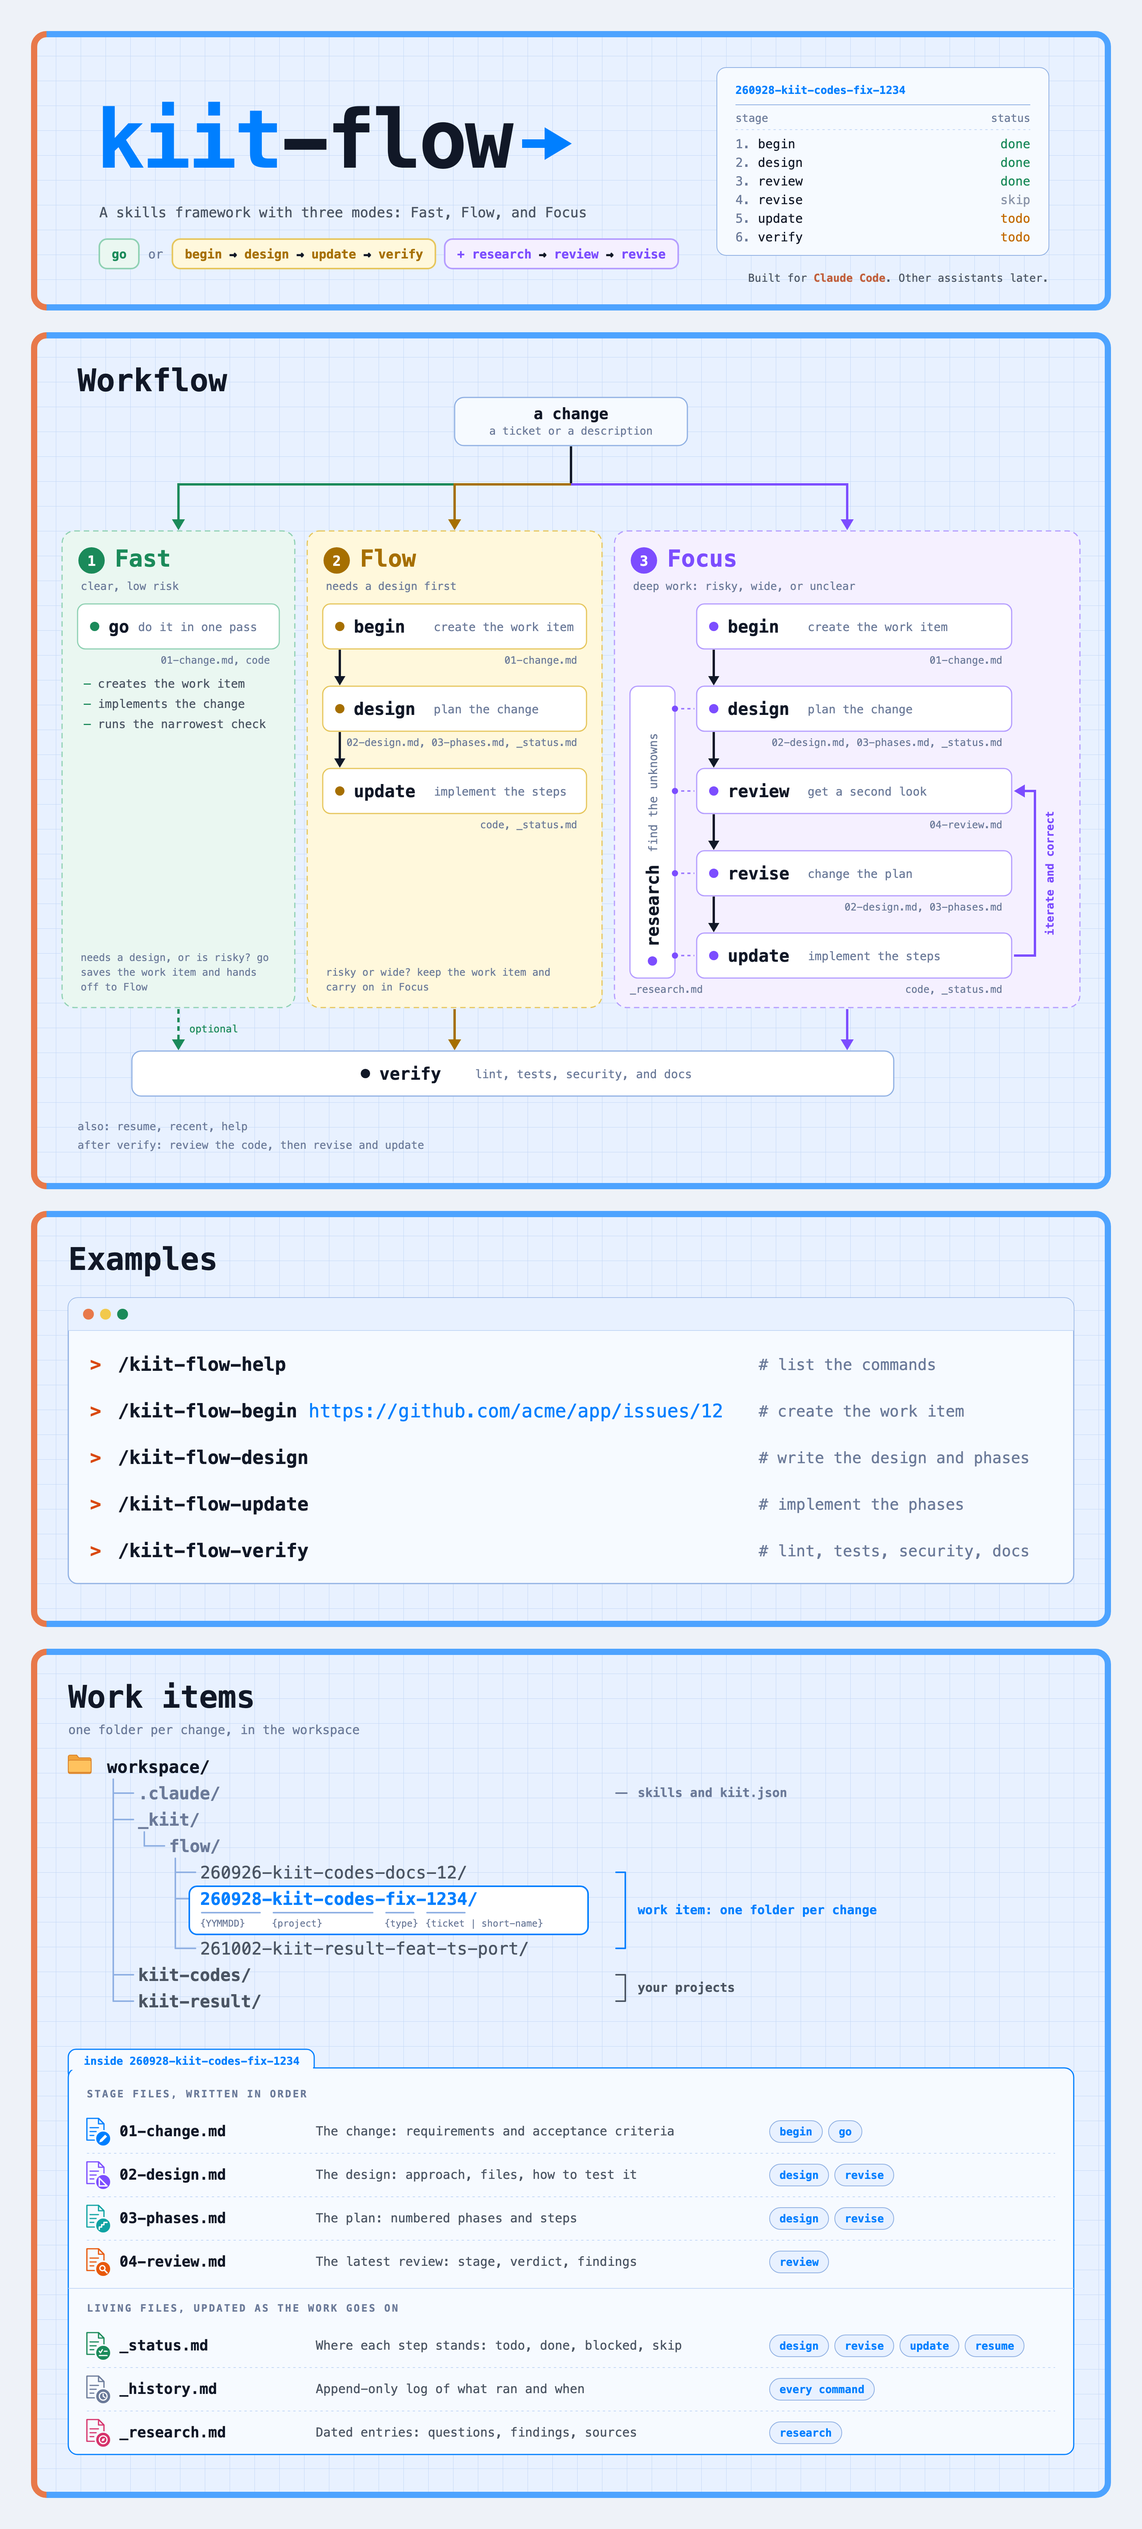
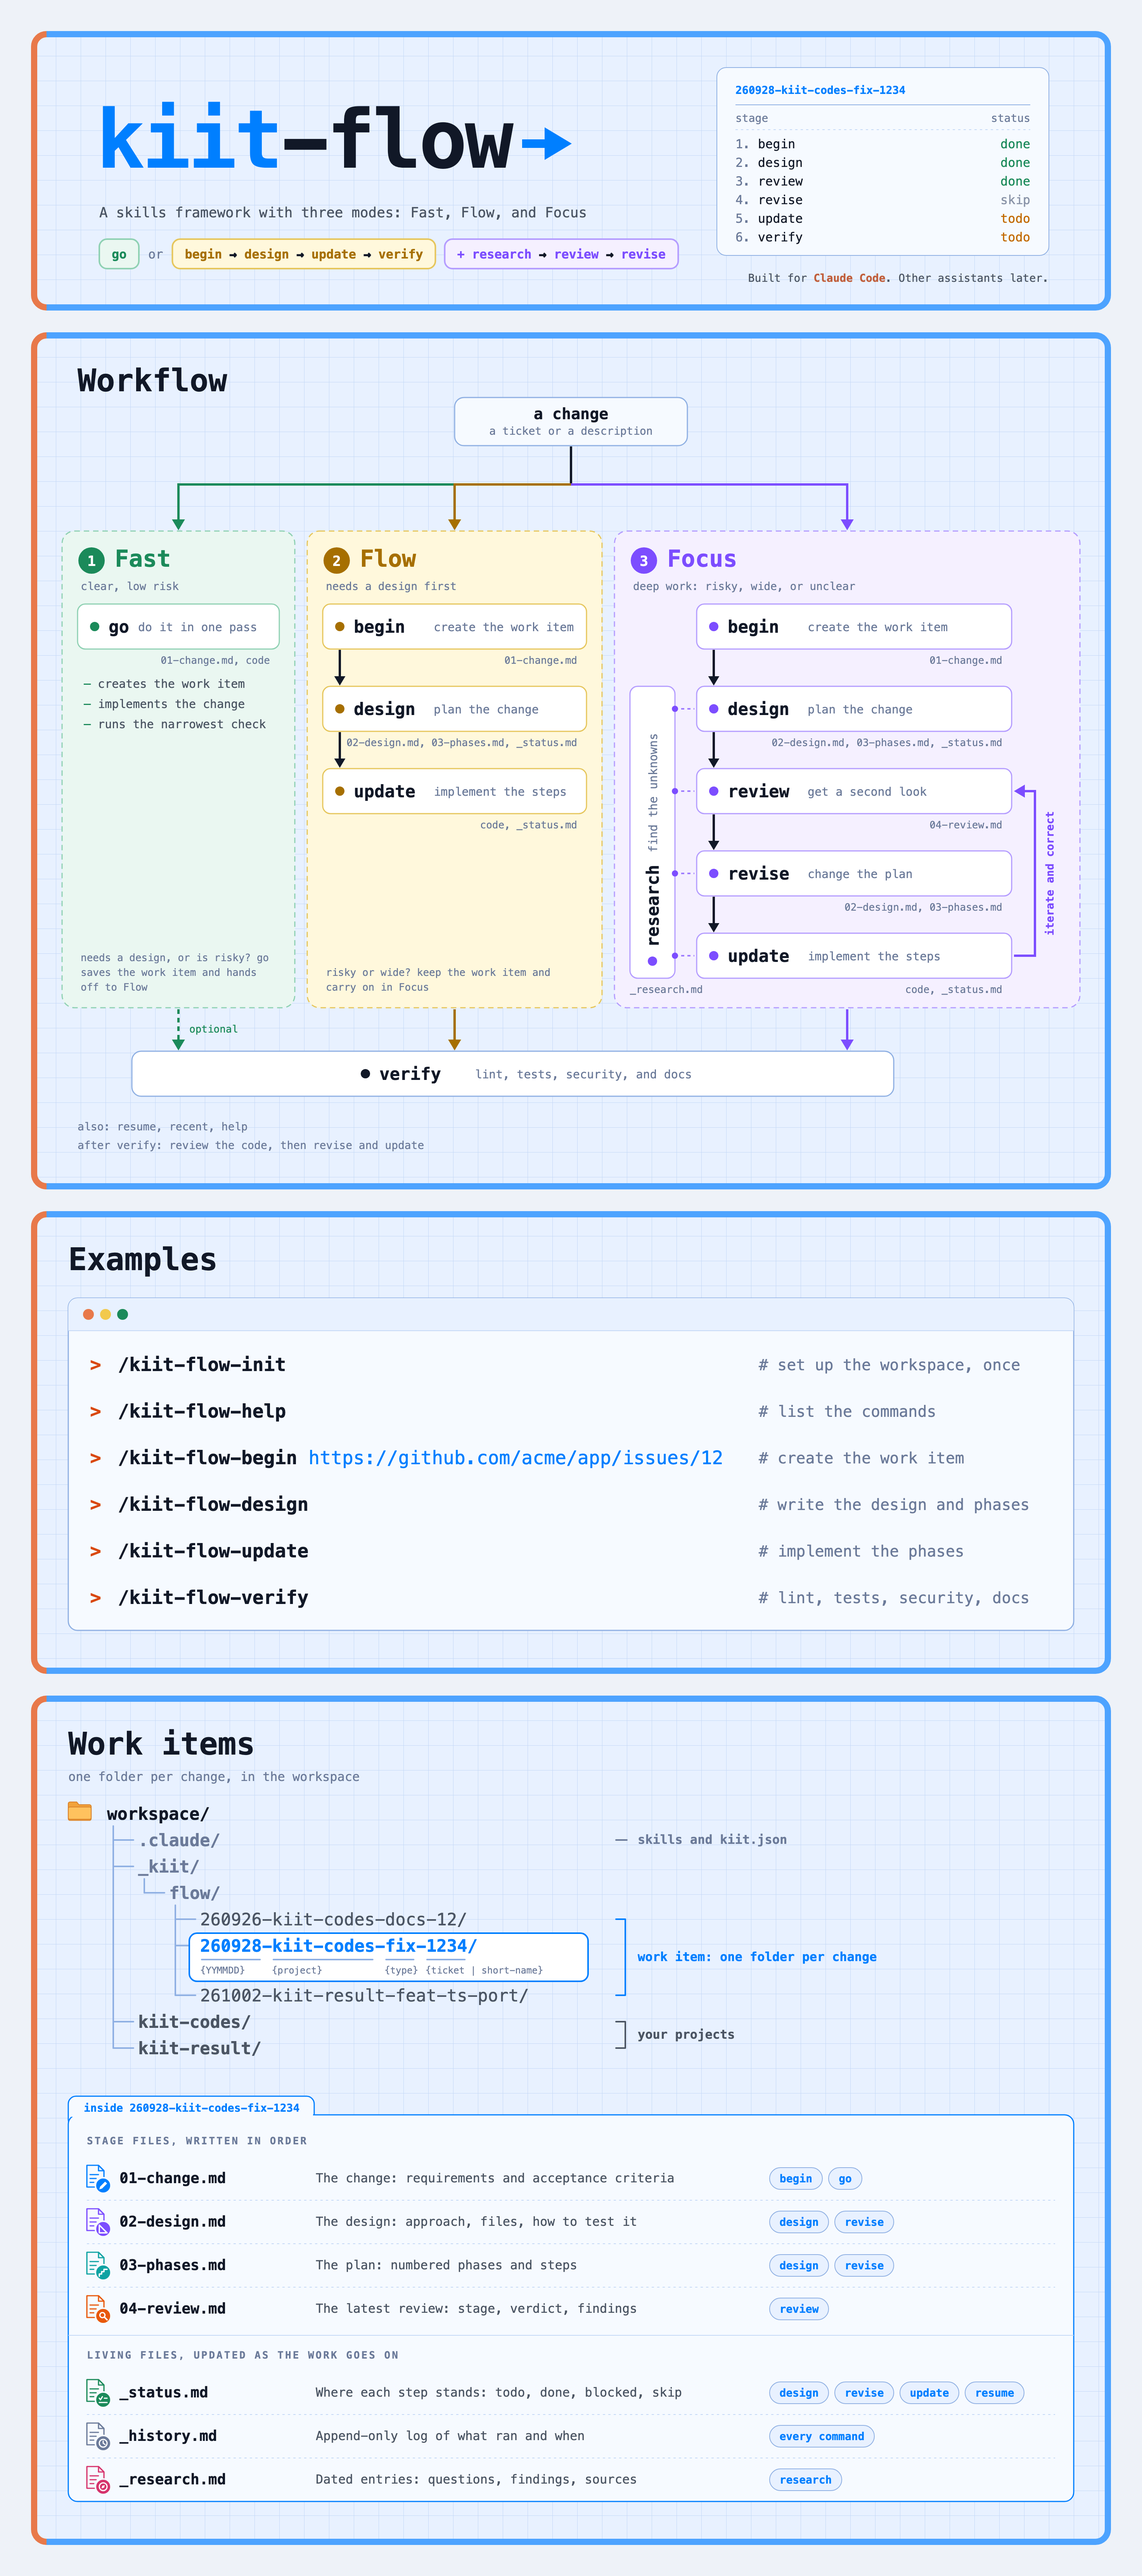
add: init skill

diff --git a/assets/commands.html b/assets/commands.html
@@ -34,6 +34,7 @@ const CONFIG = {
   prefix: "/kiit-flow-",                            // the full command is this plus the short name
   legend: [["fast", "Fast"], ["flow", "Flow and Focus"], ["focus", "Focus"], ["any", "Any mode"]],
   commands: [                                      // [name, group, description, files written]
+    ["init",     "any",   "set up the workspace config, once",               ".claude/kiit/kiit.json"],
     ["go",       "fast",  "do a clear, low-risk change in one pass",         "01-change.md, code"],
     ["begin",    "flow",  "create a work item from a ticket or description", "01-change.md"],
     ["design",   "flow",  "write the design, phases, and status",            "02-design.md, 03-phases.md, _status.md"],
@@ -46,14 +47,14 @@ const CONFIG = {
     ["recent",   "any",   "list work items, newest first",                   ""],
     ["help",     "any",   "show the commands, or the usage of one",          ""],
   ],
-  footer: "Every command except recent and help adds a row to _history.md.",
+  footer: "Every command except init, recent and help adds a row to _history.md.",
   theme: KIIT_THEME,
 };
 // ---------------------------------------------------------------------------
 
 function buildSvg(c) {
   const t = c.theme, W = c.width, vpad = 20, margin = 56;
-  const rowH = 48, rowGap = 14, pitch = rowH + rowGap, rowsTop = 108;
+  const rowH = 48, rowGap = 22, pitch = rowH + rowGap, rowsTop = 108;
   const cx = margin + 16, rowX = margin + 56, rowW = W - margin - rowX;
   const n = c.commands.length;
   const rowsBottom = rowsTop + n * pitch - rowGap;

diff --git a/assets/start.html b/assets/start.html
@@ -25,6 +25,7 @@ const CONFIG = {
   label: "Examples",
   width: 1392,                               // the same width as the workflow diagram
   lines: [                                   // [command, argument, comment]
+    ["/kiit-flow-init",   "",                                         "set up the workspace, once"],
     ["/kiit-flow-help",   "",                                         "list the commands"],
     ["/kiit-flow-begin",  "https://github.com/acme/app/issues/12",    "create the work item"],
     ["/kiit-flow-design", "",                                         "write the design and phases"],

diff --git a/skills/flow-init/SKILL.md b/skills/flow-init/SKILL.md
@@ -1,0 +1,61 @@
+---
+description: Set up a workspace: find the projects and write the config.
+argument-hint: ""
+order: 0
+disable-model-invocation: true
+---
+
+# flow-init
+
+Set up a workspace from what is already there: find the projects, read their remotes, and write `.claude/kiit/kiit.json` and the work item folder. Changes no project.
+
+Read `.claude/kiit/flow/shared.md` first. Its workspace rule doesn't apply: init creates the config.
+
+## Usage
+```
+USAGE: /flow-init
+
+  Set up the workspace: find the projects and write kiit.json.
+
+
+ARGUMENTS:
+  none
+
+
+EXAMPLES:
+  /flow-init
+```
+
+## Steps
+1. Use the working directory as the workspace root.
+   - A `.claude/kiit/kiit.json` here or above: use that folder, and update it
+2. Find the projects. Each immediate subfolder that is a git repository is one.
+   - Skip hidden folders and the work item folder
+   - Name it by its folder, with the path `./{folder}`
+   - The workspace is itself a repository: one project, with the path `.`
+   - None found: `error: no git repositories found`, and stop
+3. Read each project's `origin` remote to find its ticket system.
+   - `git -C {path} remote get-url origin`. Both https and ssh forms count
+   - A GitHub remote gives a `github` system with its `owner`, one per owner
+   - Two or more owners: name each system by its owner, and set `tickets` on the
+     projects. Put the owner with the most projects first
+   - The repo name differs from the folder name: set `repo`
+   - Ask once whether to add Jira, Linear or another system, with its `url`
+   - No system at all: write `"tickets": []`
+4. Look for a folder of standards: `standards`, or `standards` one level down.
+   - Found: offer it as the `standards` resource. Ask first
+5. A `github` system is set and `gh` isn't installed: warn that tickets need it.
+6. Show what will be written, then ask to go ahead.
+   - An existing file: show only the changes, and keep every value it has
+   - Ask before changing a value. Never overwrite one
+7. Write `.claude/kiit/kiit.json`, and create the `flow.work_items` folder.
+   - `flow.work_items` is `_kiit/flow` unless the file sets it
+8. Print what was set up, then the next step.
+   - `/flow-begin {project} {type} {description}`, with a real project name
+   - The workspace is a repository: suggest `_kiit/` in `.gitignore`, no edit
+
+## Rules
+1. Write only `.claude/kiit/kiit.json` and the work item folder.
+2. No git write commands. Reading a remote is fine.
+3. It is the one skill that runs without a `kiit.json`.
+4. Running it again is safe. It asks before any change.

diff --git a/README.md b/README.md
@@ -55,11 +55,11 @@ cd kiit-flow
 ./install.sh /path/to/workspace
 ```
 
-**Configure** by editing `.claude/kiit/kiit.json` in the workspace. Install creates it from the example, and running install again never overwrites it.
+**Set up** by restarting Claude Code in the workspace and running `/kiit-flow-init`. It finds your repos and their ticket systems, and writes `.claude/kiit/kiit.json` after you confirm. Install never creates or overwrites that file.
 
-**Run** from the workspace, after a restart:
+**Run** from the workspace:
 
-![The first commands to run: help, begin with a ticket link, design, update, and verify, each with a short comment](./assets/kiit-flow-start.svg)
+![The first commands to run: init, help, begin with a ticket link, design, update, and verify, each with a short comment](./assets/kiit-flow-start.svg)
 
 That is Flow. `begin` reads the ticket, fills in the project and type, asks you to confirm, and creates the work item.
 
@@ -71,7 +71,7 @@ Every command prints its own usage with `--help`, for example `/kiit-flow-begin 
 
 The commands are listed in workflow order. In Focus, `review`, `revise`, and `update` form a loop that iterates and corrects until the work is right. After `verify`, `review code` checks the finished code.
 
-![The 11 commands in workflow order: go, begin, design, research, review, revise, update, resume, verify, recent, and help, colored by mode, with the files each one writes](./assets/kiit-flow-commands.svg)
+![The 12 commands in workflow order: init, go, begin, design, research, review, revise, update, resume, verify, recent, and help, colored by mode, with the files each one writes](./assets/kiit-flow-commands.svg)
 
 ## Work Item
 
@@ -91,7 +91,7 @@ Flow reads `.claude/kiit/kiit.json` in your workspace. It lists the ticket syste
 
 Flow works from a workspace that holds one or more projects. For a single project, list it with a path of `.`.
 
-[`shared/kiit.example.json`](./shared/kiit.example.json) shows the shape. Each key is described in [`shared/shared.md`](./shared/shared.md#workspace-and-config).
+`/kiit-flow-init` writes the file for you. [`shared/kiit.example.json`](./shared/kiit.example.json) shows the shape. Each key is described in [`shared/shared.md`](./shared/shared.md#workspace-and-config).
 
 ## Coming soon
 

diff --git a/shared/shared.md b/shared/shared.md
@@ -10,7 +10,7 @@ in a code block and stop. Do nothing else, not even read the config.
 Print `error: {what is wrong}` and, when there is a fixed set of answers, `valid: {the choices}`. Then stop.
 
 ## Workspace and config
-The workspace root is the nearest folder, starting at the working directory and going up, that contains `.claude/kiit/kiit.json`. No such folder: `error: .claude/kiit/kiit.json not found`.
+The workspace root is the nearest folder, starting at the working directory and going up, that contains `.claude/kiit/kiit.json`. No such folder: `error: .claude/kiit/kiit.json not found`, and suggest `/flow-init`, the one skill that runs without it.
 
 `kiit.example.json`, next to this file, shows the whole shape. Paths are relative to the root.
 
@@ -227,7 +227,7 @@ cd {work_items} && find . -mindepth 2 -type f ! -name .DS_Store -exec stat -f '%
 `stat -f` is macOS. On Linux use `stat -c '%Y %n'`. No work items: `error: no work items`,
 and suggest `/flow-begin`.
 
-Every skill except `begin`, `help` and `recent` tells the user which work item it picked.
+Every skill except `begin`, `help`, `recent` and `init` tells the user which work item it picked.
 
 ## Read a ticket
 To get a ticket's title, labels and description:

diff --git a/skills/flow-help/SKILL.md b/skills/flow-help/SKILL.md
@@ -42,15 +42,18 @@ EXAMPLES:
 flow: take a change from idea to PR, one work item at a time
 
 COMMANDS:
-  1. /flow-go     [project] [type] {ticket|description}
+  1. /flow-init
+                  Set up a workspace: find the projects and write the config.
+
+  2. /flow-go     [project] [type] {ticket|description}
                   Do a clear, low-risk change in one pass: no design, just implement and check.
 
-  2. /flow-begin  {project} {type} {ticket|description}
+  3. /flow-begin  {project} {type} {ticket|description}
                   Create a work item from a ticket or a description.
 
   ...
 
-  11. /flow-help  [command]
+  12. /flow-help  [command]
                   Show the flow commands, or the usage of one command.
 
 Run /flow-help <command> for arguments and examples.

diff --git a/CONVENTIONS.md b/CONVENTIONS.md
@@ -95,9 +95,10 @@ EXAMPLES:
 ## Behavior
 1. Stop and ask when a choice changes the result. Don't guess.
 2. Report outcomes as they are. A skipped check is skipped, a failed one is failed.
-3. Add one row to `_history.md` per run, except `help` and `recent`.
+3. Add one row to `_history.md` per run, except `help`, `recent` and `init`.
 4. Never run git write commands. The user commits and pushes.
 5. Write only inside the work item folder, plus the project repo when code changes.
+   - `init` writes the config and creates the work item folder
 
 ## Checklist
 1. The parts are in the order under Shape.
